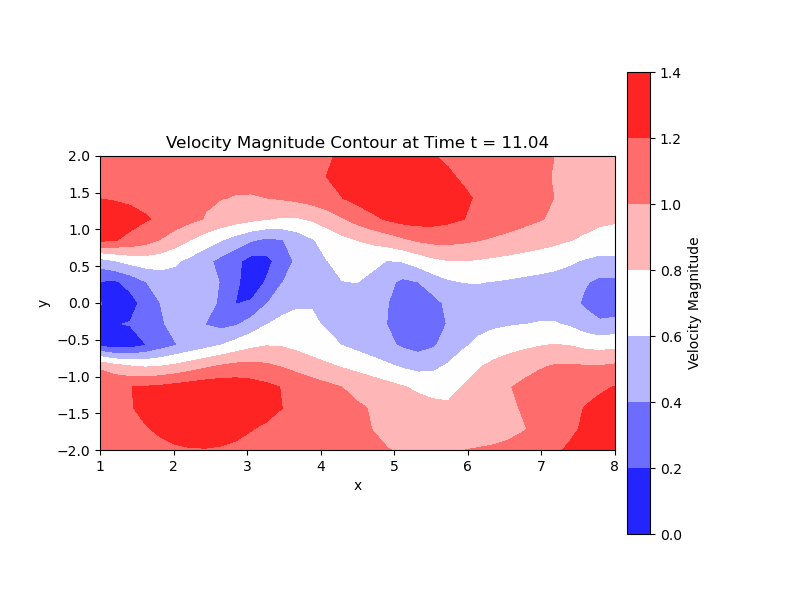
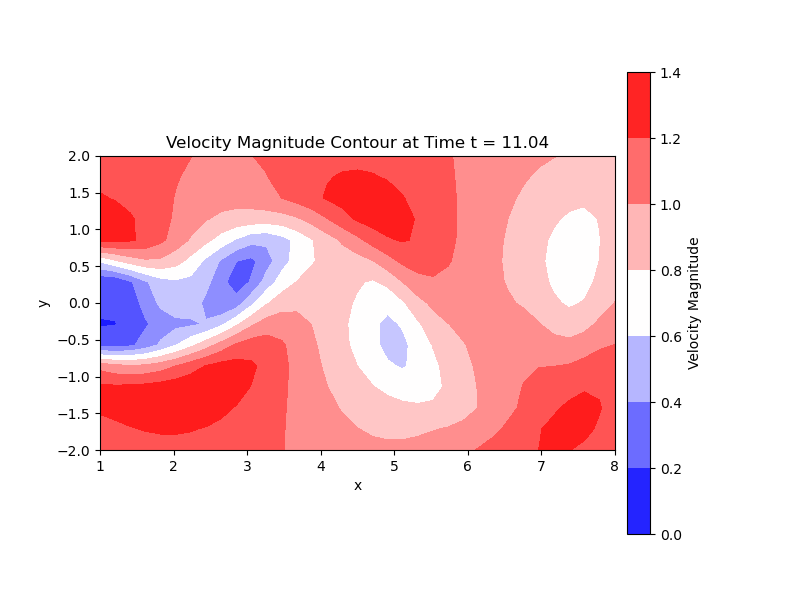
reporting

Changed region(s): [[0.125, 0.24, 0.7812, 0.75]]

diff --git a/pinn/pre_processing.py b/pinn/pre_processing.py
@@ -8,9 +8,9 @@ from scipy.interpolate import griddata
 from tqdm import tqdm
 import os
 
-def process_reynolds_data(Re, time_start=0, time_end=250, num_time_points=5,
+def process_reynolds_data(Re, time_start=0, time_end=250, num_time_points=10,
                           x_start=1, x_end=8, y_start=-2, y_end=2,
-                          num_points_x=25, num_points_y=10, cylinder_radius=0.5,
+                          num_points_x=35, num_points_y=15, cylinder_radius=0.5,
                           save_path='temp/'):
 
     # Ensure the save directory exists
